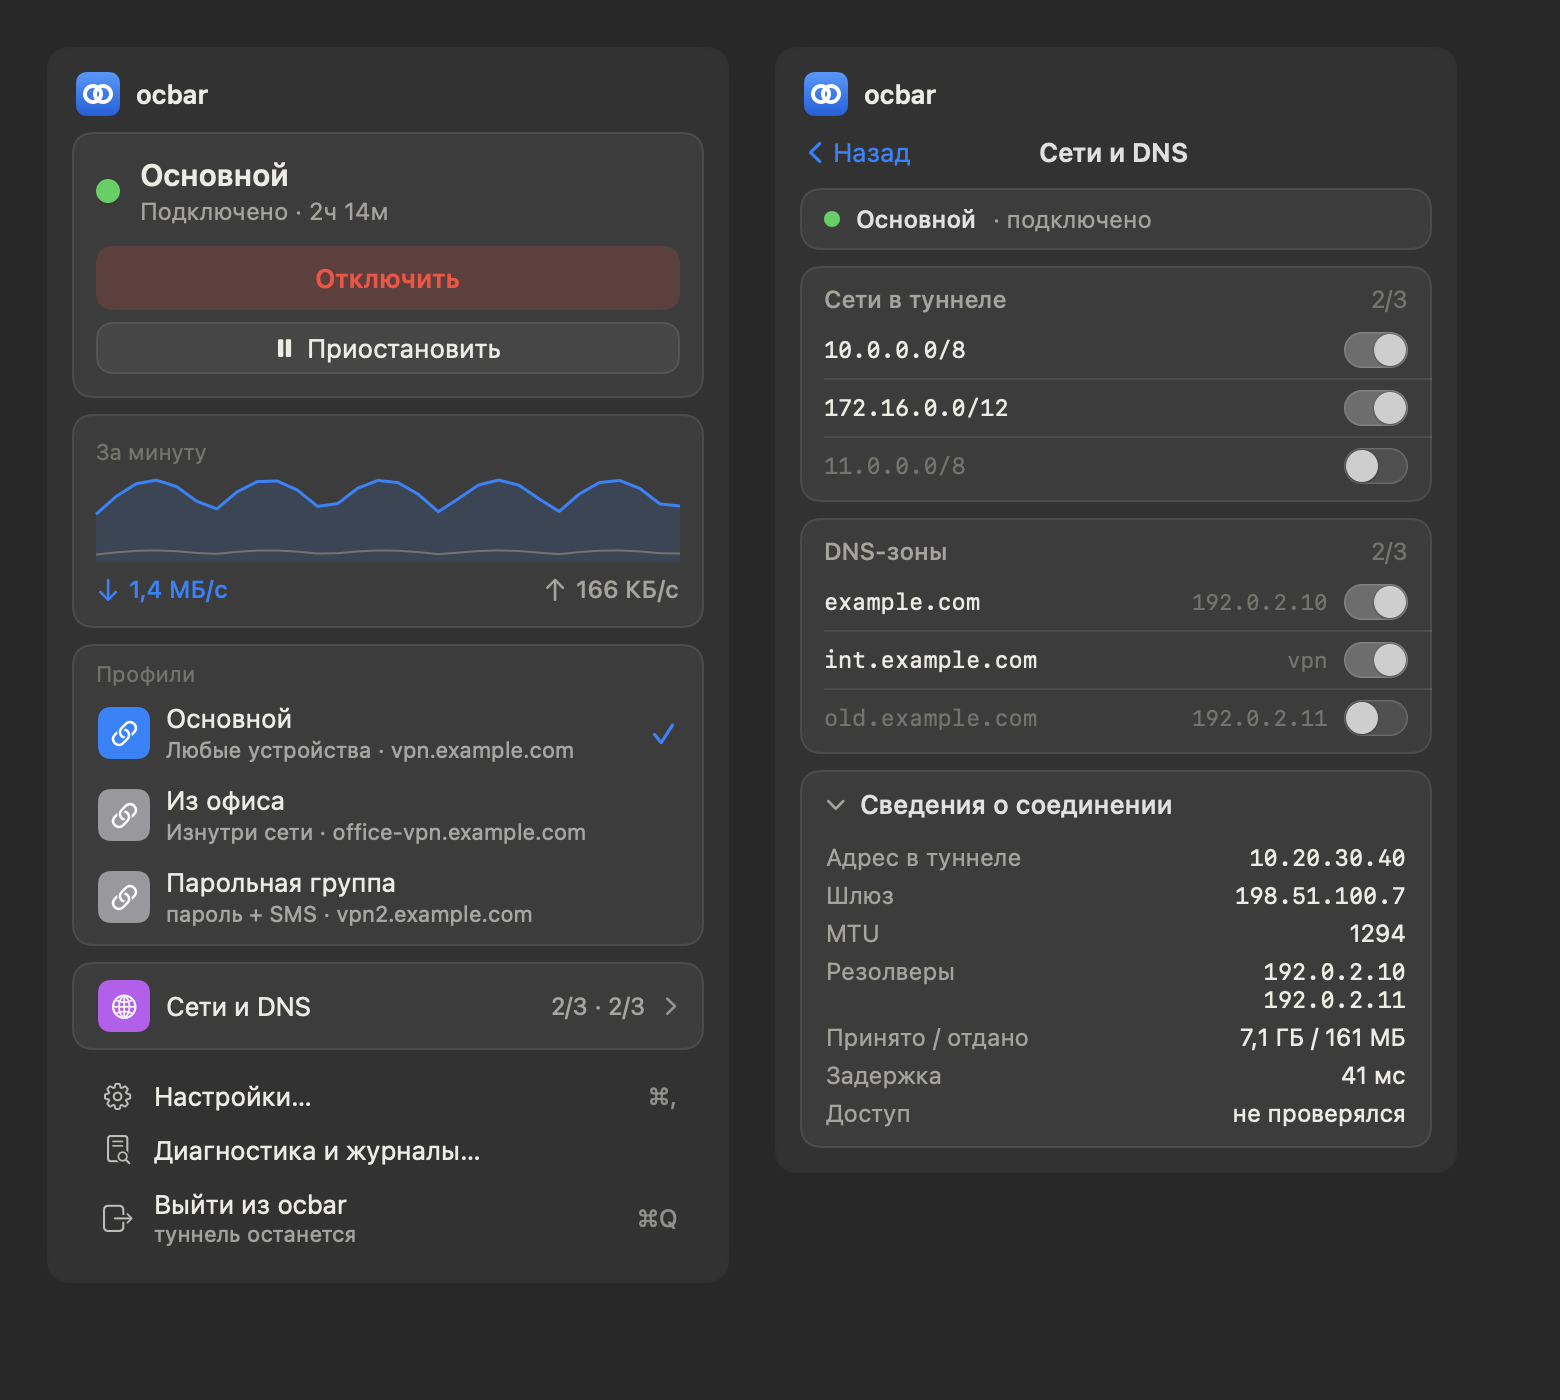
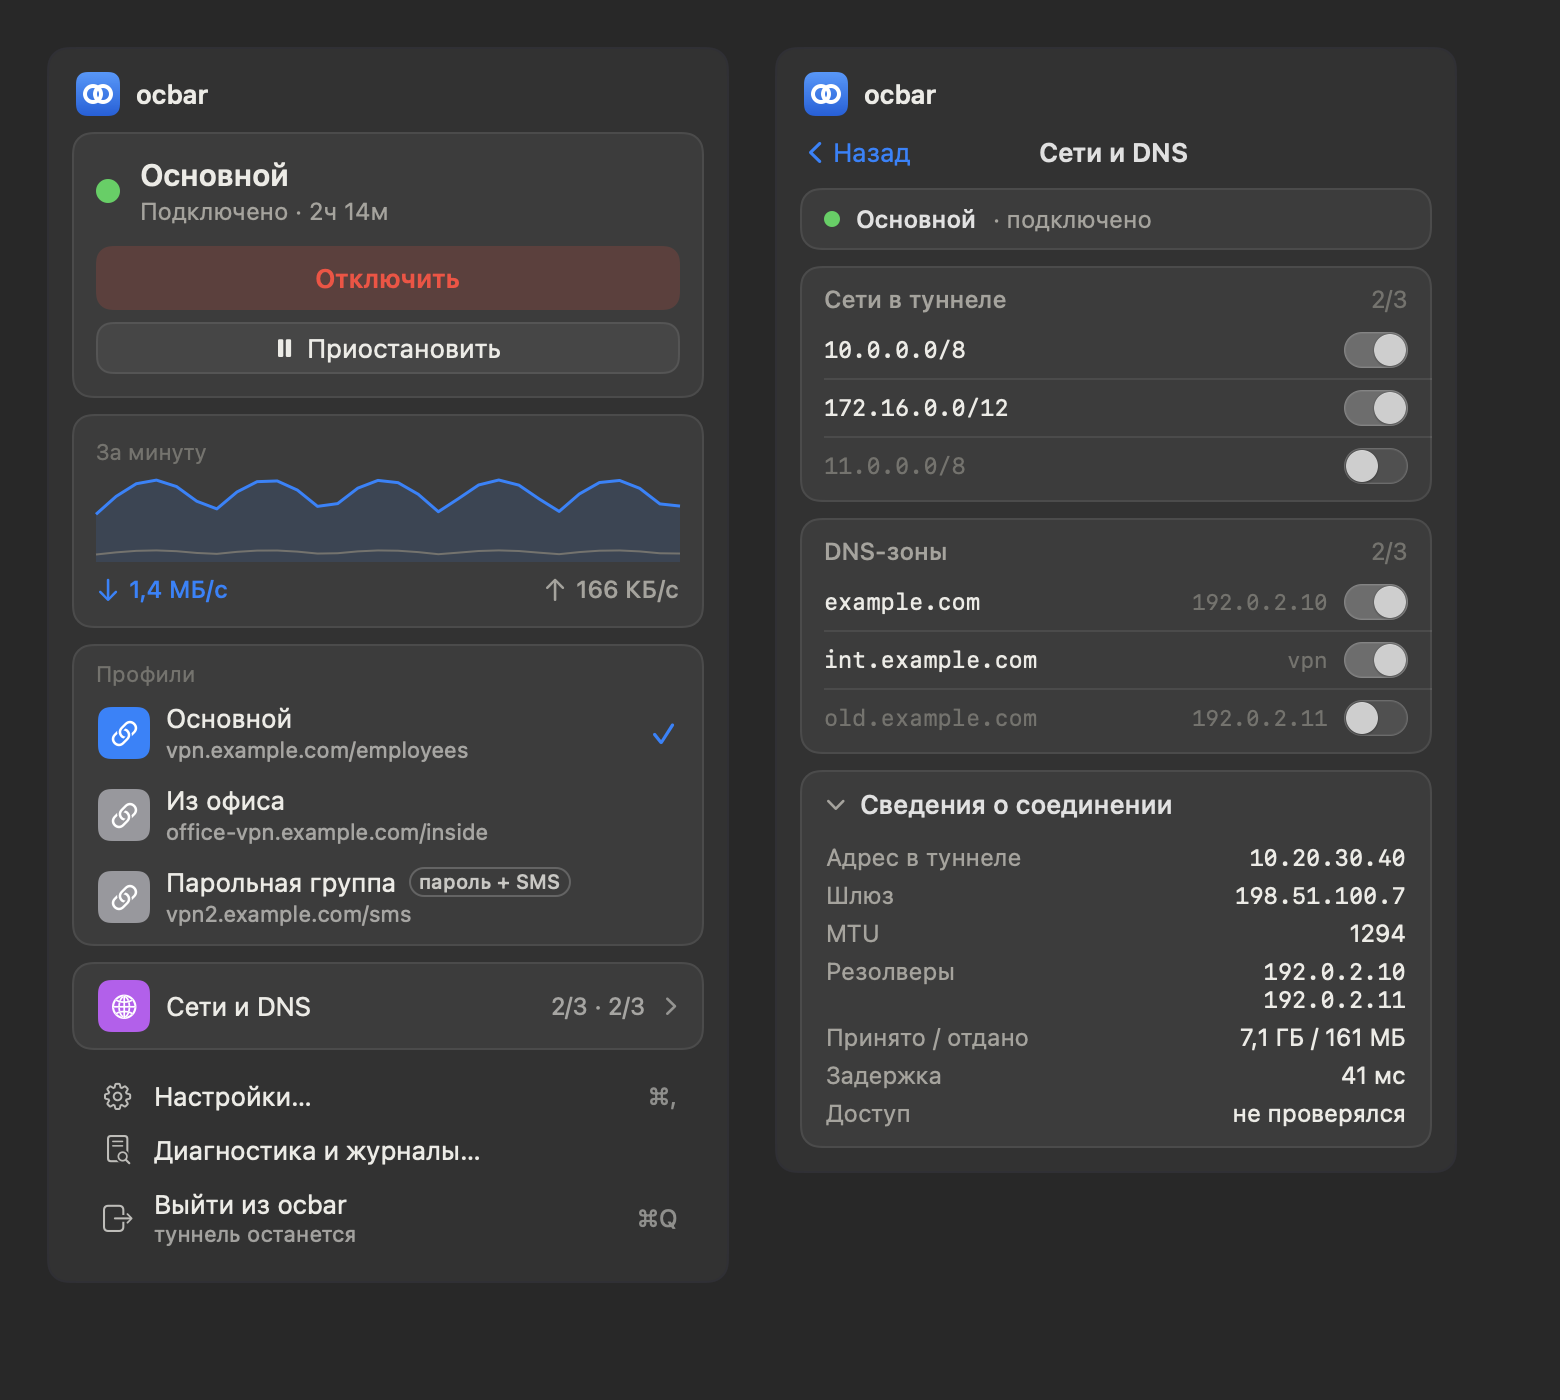
feat(app): у профиля — полный адрес с группой, в меню отдельной строкой

Changed region(s): [[0.0923, 0.5836, 0.3692, 0.6757], [0.0923, 0.5221, 0.3692, 0.5529]]

diff --git a/app/Sources/ocbar-app/UI/MenuView.swift b/app/Sources/ocbar-app/UI/MenuView.swift
@@ -327,7 +327,7 @@ struct MenuView: View {
                     // профилях он мог оказаться под краем прокрутки.
                     ScrollViewReader { proxy in
                         VStack(alignment: .leading, spacing: 0) {
-                            ForEach(s.profiles) { p in profileRow(p).id(p.name) }
+                            ForEach(s.profiles) { p in profileRow(p).id(p.name).help(p.descr) }
                         }
                         .onAppear { proxy.scrollTo(selected, anchor: .center) }
                     }
@@ -344,13 +344,21 @@ struct MenuView: View {
         return MenuRow(enabled: idle, action: { choose(p) }) {
             IconTile(symbol: "link", color: on ? Palette.accent : Color.gray)
             VStack(alignment: .leading, spacing: 1) {
-                Text(p.display).font(.system(size: 13))
-                    .lineLimit(1).truncationMode(.tail)
-                // Под названием — домен подключения: одинаковые названия у
-                // разных шлюзов иначе не различить.
-                let sub = [p.isPassword ? "пароль + SMS" : p.descr, p.host].filter { !$0.isEmpty }
-                if !sub.isEmpty {
-                    Text(sub.joined(separator: " · ")).font(.system(size: 11)).opacity(0.6)
+                HStack(spacing: 6) {
+                    Text(p.display).font(.system(size: 13))
+                        .lineLimit(1).truncationMode(.tail)
+                    if p.isPassword {
+                        Text("пароль + SMS").font(.system(size: 10, weight: .medium))
+                            .padding(.horizontal, 5).padding(.vertical, 1)
+                            .background(Capsule().strokeBorder(Color.primary.opacity(0.3)))
+                            .opacity(0.8)
+                    }
+                }
+                // Под названием — адрес с группой: одинаковые названия у
+                // разных шлюзов и групп иначе не различить. Описание — в
+                // подсказке: вместе с адресом в строку оно не помещалось.
+                if !p.address.isEmpty {
+                    Text(p.address).font(.system(size: 11)).opacity(0.6)
                         .lineLimit(1).truncationMode(.middle)
                 }
             }

diff --git a/app/Sources/ocbar-app/UI/ProfileEditor.swift b/app/Sources/ocbar-app/UI/ProfileEditor.swift
@@ -753,7 +753,7 @@ struct ProfileEditorView: View {
         let s = store.status
         var parts: [String] = []
         if s.defaultProfile == name { parts.append("по умолчанию") }
-        let host = heads[name]?.host ?? s.profiles.first { $0.name == name }?.host ?? ""
+        let host = heads[name]?.host ?? s.profiles.first { $0.name == name }?.address ?? ""
         parts.append(host.isEmpty ? name + ".ocbar" : host)
         return parts.joined(separator: " · ")
     }
@@ -918,7 +918,7 @@ struct ProfileEditorView: View {
         var h: [String: (title: String, host: String)] = [:]
         for name in files {
             guard let d = ProfileStore.load(name) else { continue }
-            let host = ProfileEntry(name: name, title: d.name, auth: d.auth, descr: d.descr, url: d.url).host
+            let host = ProfileEntry(name: name, title: d.name, auth: d.auth, descr: d.descr, url: d.url).address
             h[name] = (d.name, host)
         }
         heads = h

diff --git a/app/Sources/ocbar-app/Core/SelfTestAudit.swift b/app/Sources/ocbar-app/Core/SelfTestAudit.swift
@@ -126,6 +126,9 @@ extension SelfTest {
         t.check("состояние: домен профиля — без схемы и группы",
                 s.profiles.first { $0.name == "pw" }?.host == "vpn.example.test",
                 s.profiles.first { $0.name == "pw" }?.host ?? "—")
+        t.check("состояние: адрес профиля — без схемы, с группой",
+                s.profiles.first { $0.name == "pw" }?.address == "vpn.example.test/sms?x=1",
+                s.profiles.first { $0.name == "pw" }?.address ?? "—")
         let odd = s.profiles.first { $0.name == "odd" }
         t.check("состояние: «|» в названии парольной группы", odd?.isPassword == true && odd?.title == "A|B",
                 "\(odd?.title ?? "—") / \(odd?.auth ?? "—")")

diff --git a/app/Sources/ocbar-app/Core/Status.swift b/app/Sources/ocbar-app/Core/Status.swift
@@ -26,6 +26,14 @@ struct ProfileEntry: Identifiable, Hashable {
     let descr: String
     var url = ""
     var id: String { name }
+    /// Адрес подключения без схемы: https://vpn.example.com/employees/ →
+    /// vpn.example.com/employees. Группа (путь) различает профили одного шлюза.
+    var address: String {
+        var u = url.trimmingCharacters(in: .whitespaces)
+        if let r = u.range(of: "://") { u = String(u[r.upperBound...]) }
+        while u.hasSuffix("/") { u.removeLast() }
+        return u
+    }
     /// Домен подключения без схемы и группы: vpn.example.com/employees → vpn.example.com.
     var host: String {
         var u = url

diff --git a/CHANGELOG.md b/CHANGELOG.md
@@ -3,6 +3,14 @@
 All notable changes. Versions are git tags; the Homebrew formula pins each
 release to its tag and commit.
 
+## 0.8.1 — 2026-09-19
+
+- Profiles show the full connection address with its group
+  (`vpn.example.com/employees`), in the menu and in Settings: profiles of one
+  gateway differ only by the group. In the menu the address is the second
+  line, the description moved to the tooltip, and password groups get a small
+  "password + SMS" badge.
+
 ## 0.8.0 — 2026-09-19
 
 - `ocbar logs` and the new "All" tab in the Logs window show every log as one
